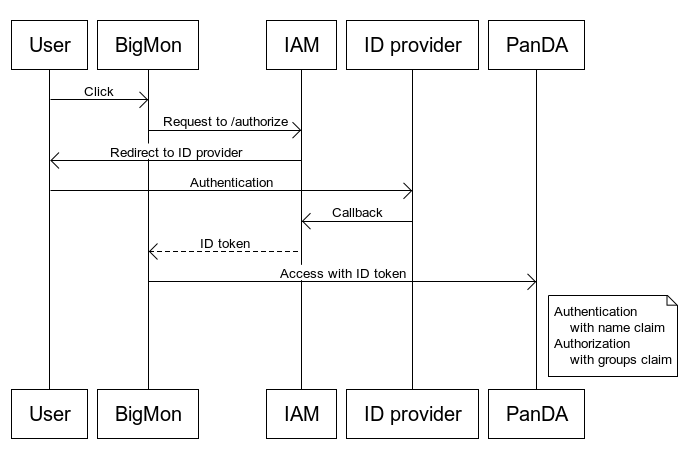
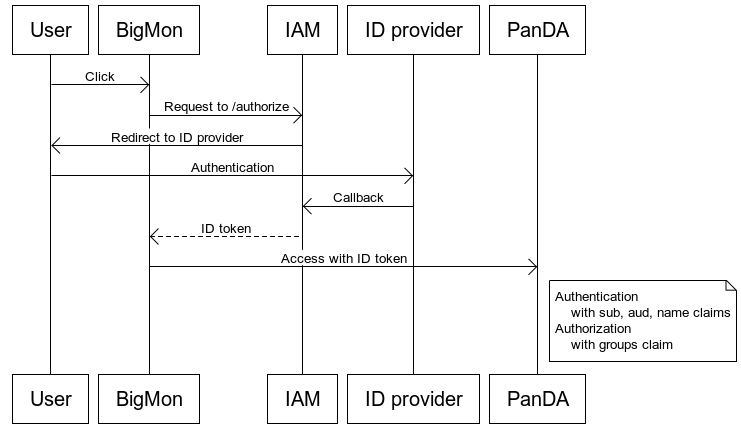
token usage

diff --git a/docs/source/architecture/iam.rst b/docs/source/architecture/iam.rst
@@ -53,8 +53,8 @@ users to authenticate themselves by visiting links in their web browsers.
 Users are redirected to their own ID providers, and after successful authentication,
 those tools obtain ID tokens from Indigo IAM for accessing the PanDA server.
 Typically, these ID tokens have a lifetime of 24 hours, reducing the need for frequent browser sessions.
-The PanDA server authenticates end-users using the ``name`` claim in the ID token, and authorizes them
-based on the ``groups`` claim.
+The PanDA server authenticates end-users using the ``sub``, ``aud``, and ``name`` claims in the ID token,
+and authorizes them based on the ``groups`` claim.
 
 |br|
 
@@ -70,8 +70,8 @@ they redirect users to their own ID providers through Indigo IAM.
 Once users are successfully authenticated, the web applications obtain ID tokens from Indigo IAM
 for accessing the PanDA server.
 Typically, these ID tokens have a lifetime of 24 hours.
-The PanDA server authenticates users (delegators) using the ``name`` claim in the ID token, and authorizes them
-based on the ``groups`` claim.
+The PanDA server authenticates users (delegators) using the ``sub``, ``aud``, and ``name`` claim in the ID token,
+and authorizes them based on the ``groups`` claim.
 
 |br|
 
